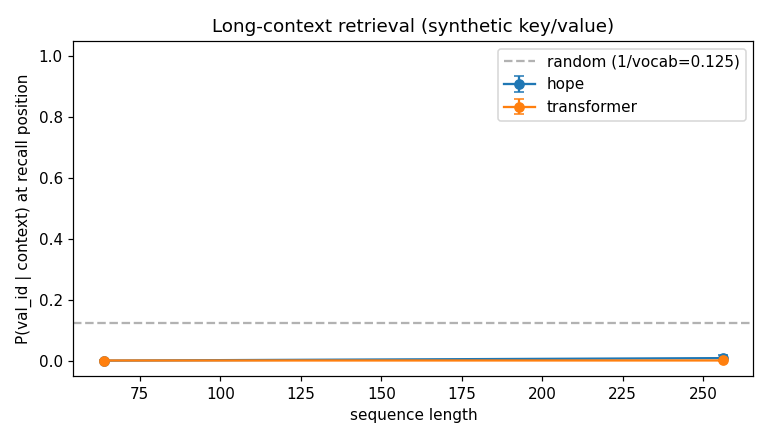
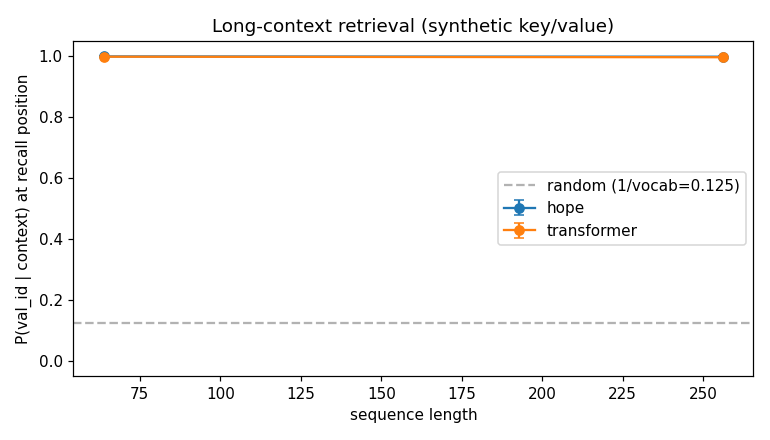
honesty: fix longctx leak, add BWT/ACC, scope README, mark DGD reference-only
Codebase audit pass (team+ralph):

- longctx benchmark: answer token no longer leaks into the input at the
  query position; loss is masked to the query position only. Keys (1-3)
  and values (4-7) live in disjoint id ranges so filler cannot accidentally
  match val_id.
- continual benchmark: add BWT (Backward Transfer) and ACC metrics from
  Lopez-Paz and Ranzato 2017 (GEM). Plot now has a second subplot for
  BWT/ACC; JSON adds per-seed and summary fields.
- README: status line now reads "study log + educational re-implementation"
  with a new Limitations section enumerating where the repo differs from
  the paper (Self-Mod ~= linear attention, CMS = single outer-product
  memory, no M3 optimizer, no RULER/BABILong eval). Roadmap gains a
  Phase 7+ row pointing at the paper-faithful work still to do.
- hope/optimizers.py: DGD and DeepOptimizer docstrings now state they are
  NOT wired into scripts/train.py -- reference implementations only.

Changed region(s): [[0.1247, 0.0886, 0.9662, 0.2955], [0.6234, 0.3841, 0.9662, 0.5614], [0.1247, 0.7977, 0.9662, 0.8273]]

diff --git a/scripts/benchmark.py b/scripts/benchmark.py
@@ -92,11 +92,34 @@ def _eval_mean_loss(model, batches, max_batches: int = 5) -> float:
     return float(np.mean(losses)) if losses else float("nan")
 
 
+def _longctx_masked_loss(logits: tf.Tensor, y: tf.Tensor, query_pos: int) -> tf.Tensor:
+    # Loss masked to query position only — filler positions are ignored so the
+    # model cannot trivially copy the answer from nearby input tokens.
+    B = tf.shape(logits)[0]
+    idx = tf.fill([B], query_pos)                          # (B,)
+    logits_q = tf.gather(logits, idx, batch_dims=1)        # (B, vocab)
+    y_q = tf.gather(y, idx, batch_dims=1)                  # (B,)
+    return tf.reduce_mean(
+        tf.keras.losses.sparse_categorical_crossentropy(y_q, logits_q, from_logits=True)
+    )
+
+
 def scenario_longctx(args) -> dict:
-    """Plant a (key, value) pair at the start, query it near the end.
+    """Needle-in-a-haystack (key, value) recall with no data leak.
+
+    Layout (positions in the input sequence):
+      0: key_id          <- planted key
+      1: val_id          <- planted value (only occurrence in input)
+      2 .. -2: filler    <- tokens drawn from a DIFFERENT id range so val_id
+                            never accidentally appears in the filler
+      -1: key_id         <- query; model must output val_id here
+
+    The answer (val_id) does NOT appear in the input at or after the query
+    position, so attention cannot shortcut by copying a nearby token.
+    Loss is masked to position -1 (the query position) only.
 
     Metric: mean probability the model assigns to ``val_id`` at the
-    recall position. Softer than argmax accuracy so the comparison is
+    query position. Softer than argmax accuracy so the comparison is
     visible on a tiny CPU-friendly training budget.
     """
     vocab = 8
@@ -114,15 +137,24 @@ def scenario_longctx(args) -> dict:
         rng = np.random.default_rng(seed)
         for seq_len in args.longctx_seq_lens:
             B = args.batch_size
+            # Keys occupy ids 1-3; values occupy ids 4-7 — disjoint ranges so
+            # filler (drawn from 1-3) cannot accidentally equal val_id.
             key_id = int(rng.integers(1, 4))
             val_id = int(rng.integers(4, vocab))
-            x = rng.integers(0, 4, size=(B, seq_len), dtype=np.int32)
-            x[:, 0] = key_id
-            x[:, 1] = val_id
-            x[:, -2] = key_id
-            x[:, -1] = val_id
+            # Filler from key range only — val_id never appears after pos 1.
+            x = rng.integers(1, 4, size=(B, seq_len), dtype=np.int32)
+            x[:, 0] = key_id   # plant key
+            x[:, 1] = val_id   # plant value (only occurrence)
+            x[:, -1] = key_id  # query — answer NOT placed here in input
+
+            # Target: only position -1 matters (val_id); rest can be anything
+            # but we keep x-shifted targets for filler positions so the tensor
+            # shape is consistent. Only the query position loss is used.
+            y = x.copy()
+            y[:, -1] = val_id  # correct answer at query position
             x_t = tf.constant(x, dtype=tf.int32)
-            y_t = x_t
+            y_t = tf.constant(y, dtype=tf.int32)
+            query_pos = seq_len - 1
 
             for name in ("hope", "transformer"):
                 if name == "hope":
@@ -135,11 +167,11 @@ def scenario_longctx(args) -> dict:
                 for _ in range(args.longctx_train_steps):
                     with tf.GradientTape() as tape:
                         logits = model(x_t)
-                        loss = _ce_loss(logits, y_t)
+                        loss = _longctx_masked_loss(logits, y_t, query_pos)
                     grads = tape.gradient(loss, model.trainable_variables)
                     opt.apply_gradients(zip(grads, model.trainable_variables))
                 logits = model(x_t)
-                probs = tf.nn.softmax(logits[:, -2, :], axis=-1).numpy()
+                probs = tf.nn.softmax(logits[:, query_pos, :], axis=-1).numpy()
                 prob_correct = float(np.mean(probs[:, val_id]))
                 prob_correct_per_seed[name][seq_len].append(prob_correct)
                 print(
@@ -182,7 +214,13 @@ def scenario_longctx(args) -> dict:
 
 
 def scenario_continual(args) -> dict:
-    """Train on domain A (TinyShakespeare), then B (random), re-eval A."""
+    """Train on domain A (TinyShakespeare), then B (random), re-eval A.
+
+    Reports BWT and ACC as defined in Lopez-Paz & Ranzato 2017 (GEM).
+    For a 2-task (A→B) setup:
+      BWT = R[B,A] - R[A,A]   (negative-loss proxy; more negative = more forgetting)
+      ACC = mean of final-checkpoint loss on A and B
+    """
     ds_a, vocab_a = get_tinyshakespeare(seq_len=args.seq_len, batch_size=args.batch_size)
     n_heads = 2
     d_model = 32
@@ -192,6 +230,9 @@ def scenario_continual(args) -> dict:
         "hope": [],
         "transformer": [],
     }
+    # BWT/ACC per seed: Lopez-Paz & Ranzato 2017, GEM
+    bwt_per_seed: dict[str, list[float]] = {"hope": [], "transformer": []}
+    acc_per_seed: dict[str, list[float]] = {"hope": [], "transformer": []}
 
     for seed in range(args.n_seeds):
         _set_seed(seed)
@@ -209,15 +250,31 @@ def scenario_continual(args) -> dict:
                 model = _build_matched_baseline(ref)
             _ = model(tf.zeros((1, args.seq_len), dtype=tf.int32))
             _train_on_batches(model, ds_a, args.steps, args.lr)
+            # R[A,A]: eval on A right after training on A
             loss_a_before_b = _eval_mean_loss(model, ds_a, max_batches=5)
             _train_on_batches(model, ds_b, args.steps, args.lr)
+            # R[B,A]: eval on A after subsequently training on B
             loss_a_after_b = _eval_mean_loss(model, ds_a, max_batches=5)
+            # R[B,B]: eval on B at final checkpoint (for ACC)
+            loss_b_after_b = _eval_mean_loss(model, ds_b, max_batches=5)
             loss_pairs_per_seed[name].append((loss_a_before_b, loss_a_after_b))
+
+            # BWT in loss space: positive = forgetting (higher loss on A after B)
+            # Lopez-Paz & Ranzato 2017, GEM — BWT = R[T,i] - R[i,i] per task i
+            bwt = loss_a_after_b - loss_a_before_b
+            # ACC = mean final-checkpoint loss over all tasks (lower = better)
+            acc = (loss_a_after_b + loss_b_after_b) / 2.0
+            bwt_per_seed[name].append(bwt)
+            acc_per_seed[name].append(acc)
             print(
-                f"[continual] seed={seed} {name}: lossA before={loss_a_before_b:.3f} after={loss_a_after_b:.3f}"
+                f"[continual] seed={seed} {name}: lossA before={loss_a_before_b:.3f}"
+                f" after={loss_a_after_b:.3f} | BWT={bwt:+.3f} ACC={acc:.3f}"
             )
 
-    fig, ax = plt.subplots(figsize=(7, 4))
+    fig, axes = plt.subplots(1, 2, figsize=(12, 4))
+    ax_loss, ax_metrics = axes
+
+    # Left: before/after bar chart (original)
     x_axis = np.arange(2)
     width = 0.35
     for name, offset in (("hope", -width / 2), ("transformer", width / 2)):
@@ -228,7 +285,7 @@ def scenario_continual(args) -> dict:
         mean_after = float(np.mean(afters))
         std_before = float(np.std(befores))
         std_after = float(np.std(afters))
-        ax.bar(
+        ax_loss.bar(
             x_axis + offset,
             [mean_before, mean_after],
             width,
@@ -236,11 +293,35 @@ def scenario_continual(args) -> dict:
             capsize=3,
             label=name,
         )
-    ax.set_xticks(x_axis)
-    ax.set_xticklabels(["A loss (before B)", "A loss (after B)"])
-    ax.set_ylabel("cross-entropy on domain A")
-    ax.set_title("Continual LM: domain-A loss before / after training on B")
-    ax.legend()
+    ax_loss.set_xticks(x_axis)
+    ax_loss.set_xticklabels(["A loss (before B)", "A loss (after B)"])
+    ax_loss.set_ylabel("cross-entropy on domain A")
+    ax_loss.set_title("Continual LM: domain-A loss before / after training on B")
+    ax_loss.legend()
+
+    # Right: BWT and ACC grouped bar chart
+    metric_names = ["BWT (loss↑=forget)", "ACC (mean final loss)"]
+    x_metrics = np.arange(len(metric_names))
+    for name, offset in (("hope", -width / 2), ("transformer", width / 2)):
+        mean_bwt = float(np.mean(bwt_per_seed[name]))
+        std_bwt = float(np.std(bwt_per_seed[name]))
+        mean_acc = float(np.mean(acc_per_seed[name]))
+        std_acc = float(np.std(acc_per_seed[name]))
+        ax_metrics.bar(
+            x_metrics + offset,
+            [mean_bwt, mean_acc],
+            width,
+            yerr=[std_bwt, std_acc],
+            capsize=3,
+            label=name,
+        )
+    ax_metrics.axhline(0, linestyle="--", color="gray", alpha=0.5)
+    ax_metrics.set_xticks(x_metrics)
+    ax_metrics.set_xticklabels(metric_names)
+    ax_metrics.set_ylabel("loss (lower = better; BWT closer to 0 = less forgetting)")
+    ax_metrics.set_title("BWT & ACC (Lopez-Paz & Ranzato 2017)")
+    ax_metrics.legend()
+
     fig.tight_layout()
     out = os.path.join(ASSETS_DIR, "bench_continual.png")
     fig.savefig(out, dpi=110)
@@ -250,9 +331,23 @@ def scenario_continual(args) -> dict:
         "n_seeds": args.n_seeds,
         "results": {
             name: [
-                {"before": p[0], "after": p[1]}
-                for p in loss_pairs_per_seed[name]
+                {
+                    "before": p[0],
+                    "after": p[1],
+                    "bwt": bwt_per_seed[name][i],
+                    "acc": acc_per_seed[name][i],
+                }
+                for i, p in enumerate(loss_pairs_per_seed[name])
             ]
+            for name in ("hope", "transformer")
+        },
+        "summary": {
+            name: {
+                "mean_bwt": float(np.mean(bwt_per_seed[name])),
+                "std_bwt": float(np.std(bwt_per_seed[name])),
+                "mean_acc": float(np.mean(acc_per_seed[name])),
+                "std_acc": float(np.std(acc_per_seed[name])),
+            }
             for name in ("hope", "transformer")
         },
     }

diff --git a/hope/optimizers.py b/hope/optimizers.py
@@ -19,6 +19,11 @@ The two classes here are intentionally framework-light: plain Python
 objects with a single ``apply_gradients`` method, so they slot into a
 ``tf.GradientTape`` loop without depending on Keras 3's Optimizer base
 class.
+
+NOTE: NOT WIRED INTO scripts/train.py — these classes are reference
+implementations of the paper's optimizer ideas (Algorithm 1 sketch).
+The training loop uses Adam. To exercise them, instantiate manually in
+a notebook.
 """
 
 from __future__ import annotations
@@ -31,6 +36,8 @@ import tensorflow as tf
 class DGD:
     """SGD with explicit weight decay, framed as a didactic stand-in
     for the paper's Delta Gradient Descent (DGD, §4.5).
+
+    NOT WIRED INTO scripts/train.py — reference implementation only; instantiate manually to experiment.
 
     Update rule (echoes Eq. 31 plus the ``(k k^T) M`` decay term that
     appears in the self-referential Titans update of Eq. 88)::
@@ -58,6 +65,8 @@ class DGD:
 
 class DeepOptimizer:
     """Momentum optimizer treating the momentum buffer as an associative memory.
+
+    NOT WIRED INTO scripts/train.py — reference implementation only; instantiate manually to experiment.
 
     Reference: §4.2, Eq. 33 - 34. The update rule is the standard
     Polyak / Nesterov form, but the momentum buffer ``m`` is explicitly

diff --git a/README.md b/README.md
@@ -8,7 +8,7 @@
 
 A tensorflow implementation of *Nested Learning: The Illusion of Deep Learning Architectures* (Behrouz, Razaviyayn, Zhong, Mirrokni; Google Research; NeurIPS 2025). [arXiv:2512.24695](https://arxiv.org/abs/2512.24695)
 
-> Status: **All six phases done.** Repo holds runnable HOPE + parameter-matched MiniTransformer + three head-to-head benchmark scenarios + seven walkthrough notebooks.
+> Status: **study log + educational re-implementation.** Self-Modifying layer is currently linear-attention scale (paper Eq. 18); CMS is a single outer-product memory (not the MLP-chain of Eq. 70-71). See Limitations.
 
 > Local working directory is `hope-architecture/`; published repo and importable package are `HOPE-tensorflow` / `hope`.
 
@@ -99,7 +99,7 @@ A `(key, value)` pair planted at the start of the sequence, recall queried near 
 
 ### Continual LM (catastrophic forgetting)
 
-Train on TinyShakespeare (domain A), then on random alphabet sequences (domain B), then re-measure cross-entropy on A. Smaller before-vs-after gap = less forgetting.
+Train on TinyShakespeare (domain A), then on random alphabet sequences (domain B), then re-measure cross-entropy on A. The plot reports both the raw before/after loss on A *and* the standard continual-learning metrics from Lopez-Paz & Ranzato 2017: **BWT** (Backward Transfer; closer to 0 = less forgetting, in loss-space) and **ACC** (mean final-checkpoint loss across A and B; lower = better).
 
 ![continual](assets/bench_continual.png)
 
@@ -110,6 +110,17 @@ Train on TinyShakespeare (domain A), then on random alphabet sequences (domain B
 ![incontext](assets/bench_incontext.png)
 
 These plots use tiny models and tiny training budgets — the *shape* of the comparison is the takeaway, not the absolute numbers.
+
+---
+
+## Limitations
+
+- **Self-Modifying layer** is implemented as linear attention with a Hebbian fast-weight update (paper Eq. 18), NOT the full Self-Referential Titans of paper §8.1 / Eq. 94-97.
+- **CMS** is a single `dim×dim` outer-product memory, NOT the MLP chain of paper §7.1 / Eq. 70-71. Nested / Sequential / Head-wise CMS variants are not implemented.
+- **M3 (Multi-scale Momentum Muon)** optimizer from paper §7.2 is not implemented.
+- **DGD / DeepOptimizer** classes exist in `hope/optimizers.py` but `scripts/train.py` uses Adam — they are reference/study implementations, not currently wired into training.
+- **Benchmarks** use tiny vocab/seq (`d_model=32`, `vocab=8`) and TinyShakespeare only. No RULER / BABILong / WikiText / CLINC evaluation.
+- **Educational scope** — see "Hardware" section.
 
 ---
 
@@ -144,6 +155,7 @@ jupyter nbconvert --to notebook --execute --inplace notebooks/*.ipynb
 | 4 | `MiniTransformer` baseline + `DGD` / `DeepOptimizer` + `scripts/train.py` + char-level loaders | done |
 | 5 | Three-scenario benchmark + assets/*.png | done |
 | 6 | Documentation polish, notebook 01, final push | done |
+| 7+ | Paper-faithful pass: Self-Mod Eq. 94-97, MLP-chain CMS (Eq. 70-71), M3 optimizer, standard benches (RULER / BABILong) | not started — see Limitations |
 
 ---
 
